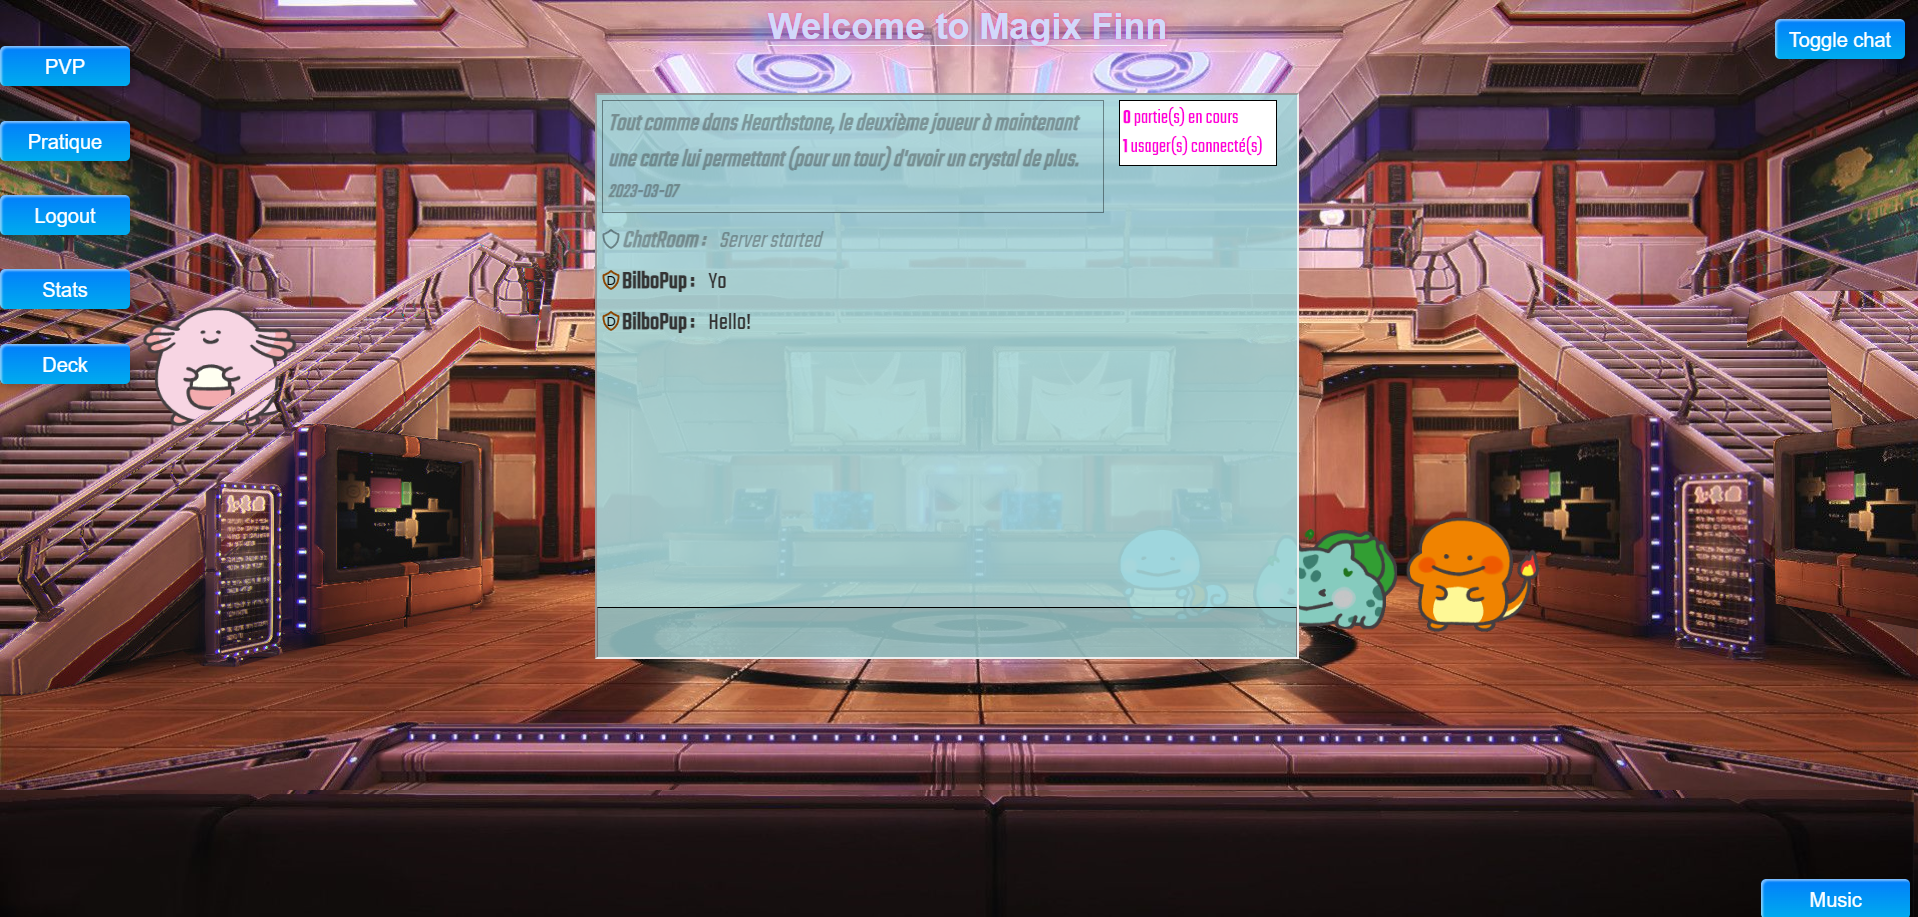
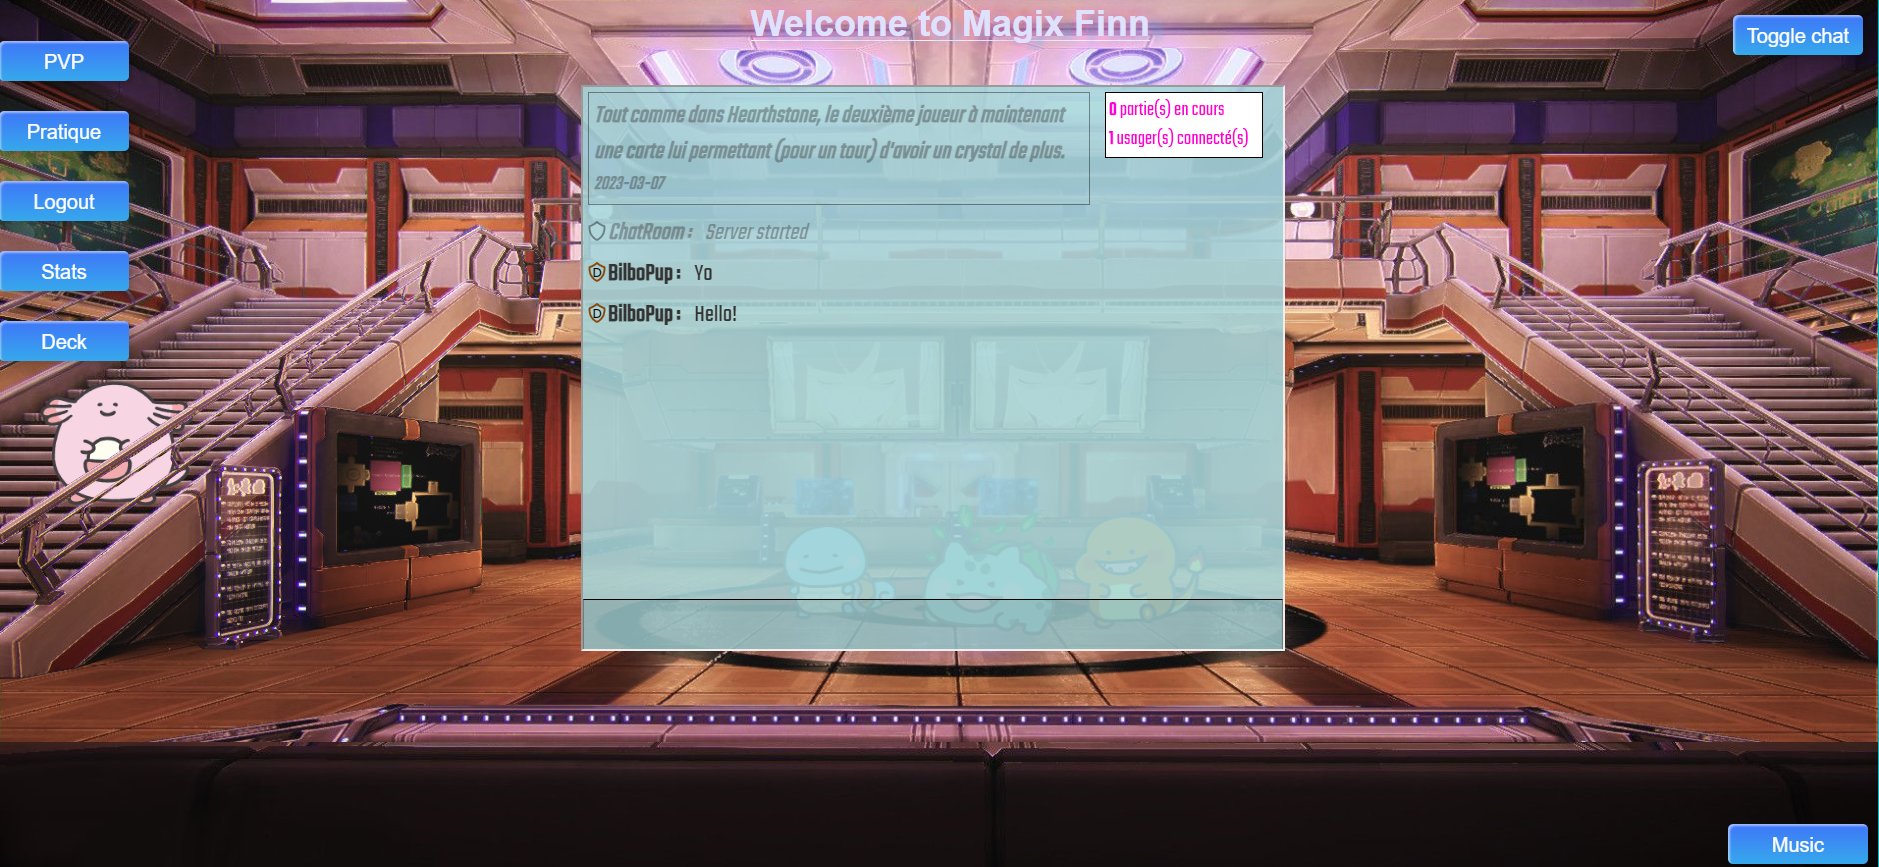
update imgs

diff --git a/js/lobby.js b/js/lobby.js
@@ -1,4 +1,4 @@
-import TiledImage from './TiledImage.js'
+import TiledImage from "./TiledImage.js";
 // =======================================================
 // Animation in a canvas
 // -------------------------------------------------------
@@ -16,15 +16,23 @@ let node = document.createElement("div");
 document.getElementById("container").append(node);
 let doc = document.getElementById("container");
 
-let tiledImageDOM = new TiledImage("img/pokemon/chansey.png", 4, 1, 300, true, 1, node);
+let tiledImageDOM = new TiledImage(
+  "img/pokemon/chansey.png",
+  4,
+  1,
+  300,
+  true,
+  1,
+  node
+);
 node.id = "chansey";
 tiledImageDOM.changeRow(0);
 tiledImageDOM.setMinMaxDimensions(0, 50, 159, 159);
 
 // Logic where the sprite changes row after animating through its columns
 tiledImageDOM.changeMinMaxInterval(0, 4, () => {
-    tiledImageDOM.changeRow(0);
-    tiledImageDOM.changeMinMaxInterval(0, 4);
+  tiledImageDOM.changeRow(0);
+  tiledImageDOM.changeMinMaxInterval(0, 4);
 });
 
 let x = 340;
@@ -32,90 +40,80 @@ let y = 280;
 let depx = -0.5;
 let depy = 0.4;
 const tickDOM = () => {
+  x += depx;
+  y += depy;
 
-    x += depx
-    y += depy
+  if (y >= 685) {
+    doc.style.zIndex = "10";
+    tiledImageDOM.setMinMaxDimensions(0, 50, 160, 160);
 
-    if (y >= 685) {
-        doc.style.zIndex = "10"
-        tiledImageDOM.setMinMaxDimensions(0, 50, 160, 160);
-
-        depx = 0.5
-        depy = 0.08
-        if (x >= 340) {
-            depx = 0
-            depy = 0
-        }
+    depx = 0.5;
+    depy = 0.08;
+    if (x >= 340) {
+      depx = 0;
+      depy = 0;
     }
+  }
 
+  tiledImageDOM.tick(x, y);
 
-    tiledImageDOM.tick(x, y);
-
-    window.requestAnimationFrame(tickDOM);
-}
+  window.requestAnimationFrame(tickDOM);
+};
 
 tickDOM();
-
 
 //audio
 let chansey = document.getElementById("chansey");
 var a = document.getElementById("chanseyAudio");
 
-
 chansey.onclick = () => {
-    playChansey()
-}
-
+  playChansey();
+};
 
 function playChansey() {
-    a.play();
+  a.play();
 }
-
 
 document.onload = () => {
-    getusername()
-}
+  getusername();
+};
 
 function getusername() {
-    document.getElementById("name").innerHTML = JSON.stringify(window.localStorage.getItem("username"));
+  document.getElementById("name").innerHTML = JSON.stringify(
+    window.localStorage.getItem("username")
+  );
 }
 
+var stat = document.getElementById("statmp3");
+var pvp = document.getElementById("pvpmp3");
+var pve = document.getElementById("pvemp3");
 
-
-var stat = document.getElementById("statmp3")
-var pvp = document.getElementById("pvpmp3")
-var pve = document.getElementById("pvemp3")
-
-
-let statb = document.getElementById("stats")
-let pvpb = document.getElementById("jouer")
-let pveb = document.getElementById("practice")
-
-
+let statb = document.getElementById("stats");
+let pvpb = document.getElementById("jouer");
+let pveb = document.getElementById("practice");
 
 statb.onmouseenter = () => {
-    stat.play();
-}
+  stat.play();
+};
 statb.onmouseleave = () => {
-    stat.pause();
-}
+  stat.pause();
+};
 pvpb.onmouseenter = () => {
-    pvp.play();
-}
+  pvp.play();
+};
 pvpb.onmouseleave = () => {
-    console.log("pvp")
+  console.log("pvp");
 
-    pvp.pause();
-}
-
+  pvp.pause();
+};
 
 pveb.onmouseenter = () => {
-    pve.play();
-}
+  pve.play();
+};
 pveb.onmouseleave = () => {
-    console.log("pve")
-    pve.pause();
-}
+  console.log("pve");
+  pve.pause();
+};
 stat.volume = 0.05;
 pvp.volume = 0.05;
 pve.volume = 0.05;
